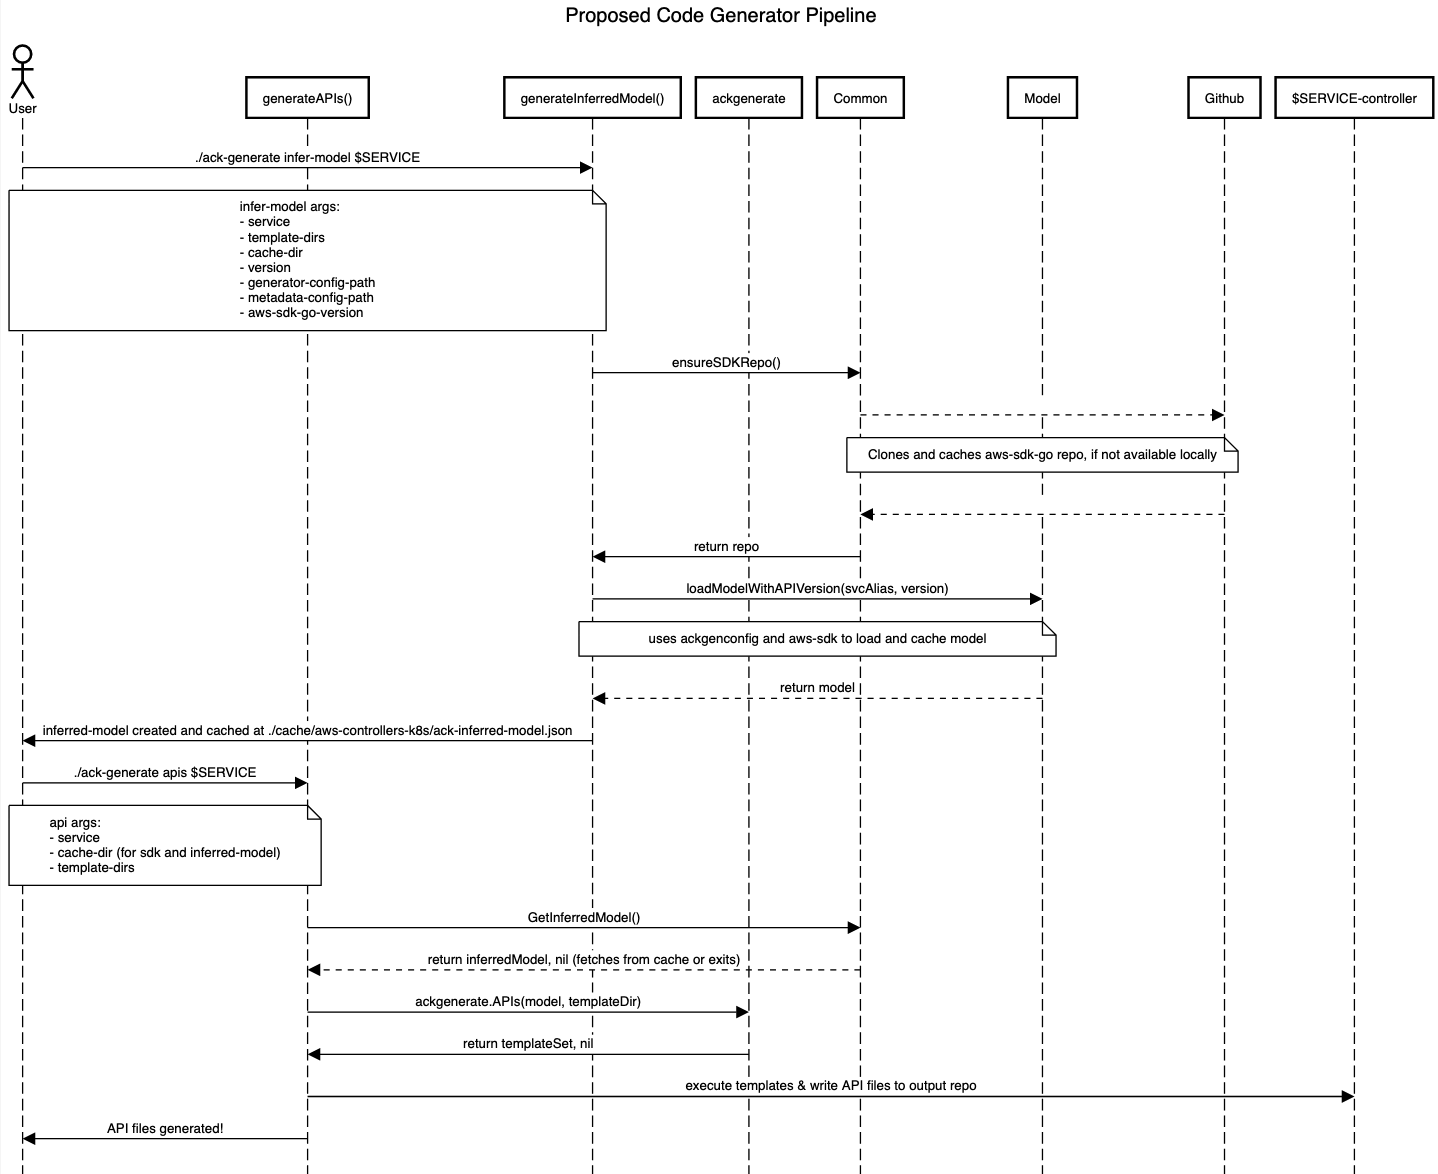
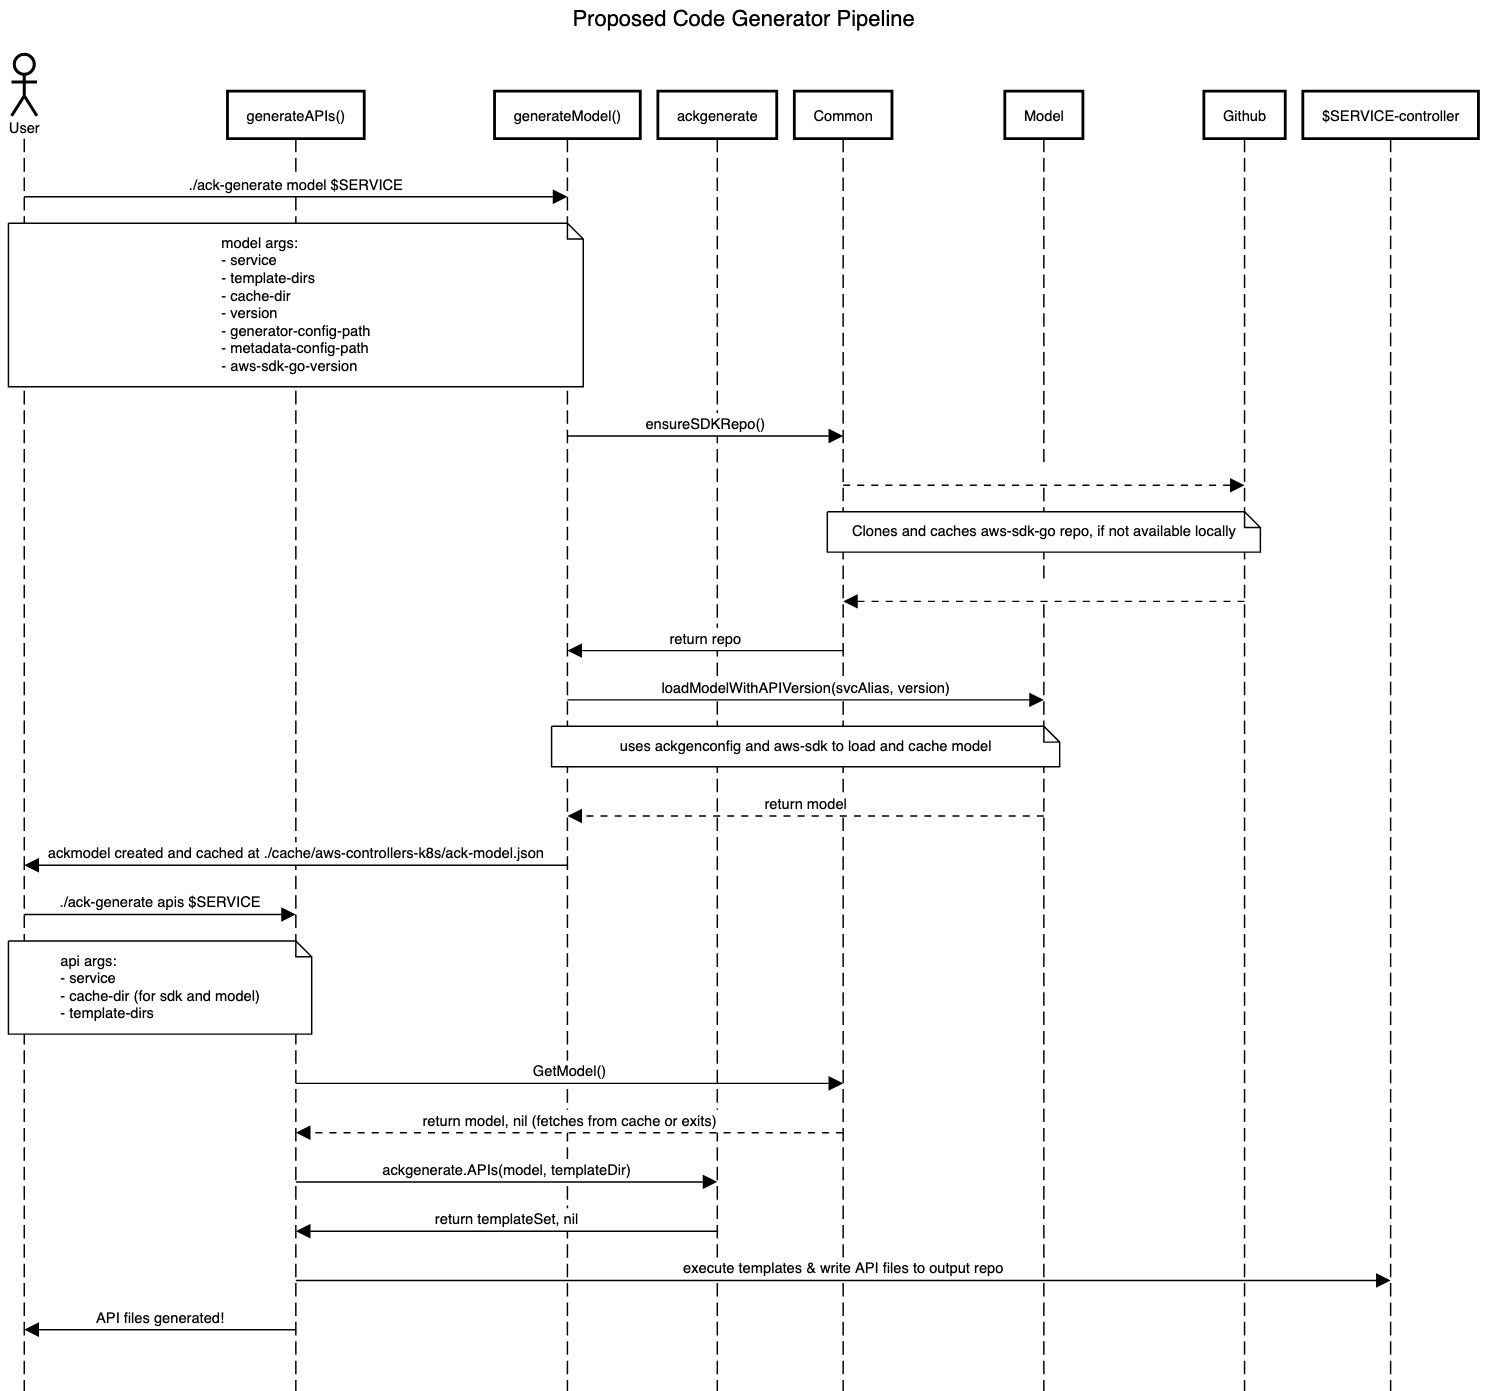
update naming from infer-model to model

diff --git a/docs/design/proposals/codegen-refactor/model_cmd.md b/docs/design/proposals/codegen-refactor/model_cmd.md
@@ -1,4 +1,4 @@
-# Adding `infer-model` command
+# Adding `model` command
 
 ## Problem
 There are inefficiencies in the code-generator `pipeline` that are starting to muddy the code and overall flow:
@@ -17,43 +17,33 @@ Current Pipeline
 * `GetCRDs` is duplicated between the commands when creating `ackmodel`
 
 ## Solution
-Add a new command, `infer-model`, which takes `aws-sdk` and *generator.yaml* as **input**, resolves relations/conflicts between the 2, persists and caches the data as serialized JSON, then **outputs** the `inferred-model` (default location: `~./cache/aws-controllers-k8s/ack-inferred-model.json`). Existing commands, `apis` and `controller`, will be downstream and take `inferred-model` as an input-- no longer needing to execute `inference` logic themselves. Within code, the `inferred-model` will be a new attribute withinin `ackmodel`.
+Add a new command, `model`, which takes `aws-sdk` and *generator.yaml* as **input**, discovers relations between the 2, persists and caches the data as serialized JSON, then **outputs** `ackmodel` (default location: `~./cache/aws-controllers-k8s/ack-model.json`). Existing commands, `apis` and `controller`, will be downstream and take `ackmodel` as an input-- no longer needing to execute `inference` logic and `ackmodel`-building themselves. Superfluous fields in [ackmodel](https://github.com/aws-controllers-k8s/code-generator/blob/02795c2056e23e1bb11dcc928ad0f0ba29790a8c/pkg/model/model.go#L37) (ex: `SDKAPI`, `cfg`) will be removed so that `ackmodel`'s responsibility remains clear and serializing large structs will not be necessary.
 
 
 Updated Pipeline
 ---
 ![updated-pipeline](./images/proposed_pipeline.png)
 * This is not an exhaustive diagram of the calls, but shows the clear responsibility of `generateModel` and how downstream commands like `api` and `controller` become significantly lighter and easier to follow.
-* `inferred-model` will be cached in the same folder as `aws-sdk` and downstream commands will check for `inferred-model` in the cache when hydrating `ackmodel`
+* `ackmodel` will be cached in the same folder as `aws-sdk` and downstream commands will check for `ackmodel` in the cache when hydrating `ackmodel`
 * No more dependency on $SERVICE-controller repo. The `ackmodel` will be generated with a specific version which can be extracted after commands `GetACKModel()`
 
 Updated `ackmodel`:
 ---
-Data relating to `API inference` will be moved from a top-level attribute in `ackmodel` to the `inferred-model` struct:
+Remove unnecessary data, `SDKAPI` and `cfg`, from `Model`:
 
 ```
 // serialized & cached during ./ack-generate infer-model
-type InferredModel struct {
-	apiVersion         string
-	crds               []*CRD
-	typeDefs           []*TypeDef
-	typeImports        map[string]string
-	typeRenames        map[string]string
-}
-
-...
-
 type Model struct {
-	SDKAPI             *SDKAPI
-	servicePackageName string
-    InferredModel    *InferredModel `json:"inferred_model"`
-	// Instructions to the code generator how to handle the API and its
-	// resources
-	cfg *ackgenconfig.Config
+	apiVersion         string `json:"api_version"`
+	crds               []*CRD `json:"crds"`
+	typeDefs           []*TypeDef `json:"type_defs"`
+	typeImports        map[string]string `json:"type_imports"`
+	typeRenames        map[string]string `json:"type_renames"`
 }
+
 ```
 
-`inferred-model` will be accessed through general-use `Model` helper functions. Ex:
+General-use helper functions are used to access `Model`, ex:
 ```
 // GetShapeRef returns the ShapeRef for a given resource and fieldName, rename-inclusive
 func (m *Model) GetShapeRef(resource *CRD, fieldName string) *awssdkmodel.ShapeRef {}
@@ -62,34 +52,34 @@ func (m *Model) GetShapeRef(resource *CRD, fieldName string) *awssdkmodel.ShapeR
 ### Requirements
 * Code generation `pipeline` flows in a single direction
 * Optimize `pipeline` by removing repeated work
-* Logic to create `inferred-model`, parse `ackgenconfig`, and resolve differences with `aws-sdk` is centralized and consistent
+* Logic to create `ackmodel`, parse `ackgenconfig`, and discover relations with `aws-sdk` is centralized and consistent
 
 ## Implementation
 
 ### Prerequisites
 * Work to achieve a **field-focused** approach covered in [`ackgenconfig` Categories proposal](./inference.md)
 * Analyze and fill test gaps
-* Any issues with marshalling `inferred-model` with proposed structs?
+* Any issues with marshalling `ackmodel` with proposed structs?
 
-### Add `InferredModel` to `ackmodel`
-Update `ackmodel` to include `InferredModel` as an attribute per the description above.
+### Update `ackmodel`
+Update `ackmodel` to remove unrelated fields & add/modify helpers.
 
 Fields may need to be altered/added to persist `API inference` data. For example, ensure the hydrating of [Field.ShapeRef](https://github.com/aws-controllers-k8s/code-generator/blob/82c294c2e8fc6ba23baa0034520e84351bb7a32f/pkg/model/field.go#L48) reflects the Field's rename, if applicable. This will align with the **field-focused** model and eliminates the need for [SetResource](https://github.com/aws-controllers-k8s/code-generator/blob/main/pkg/generate/code/set_resource.go#L191-L208) to do this work.
 
-Add/modify helper `ackmodel` methods to provide general use/access (not direct access) to `InferredModel` data like `m.GetShapeRef()` mentioned above. Downstream funcs like `SetResource` will become leaner after abstracting [`inference` work like rename checks](https://github.com/aws-controllers-k8s/code-generator/blob/d9d3390a4d5d39ccd4cab4fbdb5cef356211b01a/pkg/generate/code/set_resource.go#L185-L209) to `ackmodel` helpers.
+Add/modify helper `ackmodel` methods to provide general use/access (not direct access) like `m.GetShapeRef()` mentioned above. Downstream funcs like `SetResource` will become leaner after abstracting [`inference` work like rename checks](https://github.com/aws-controllers-k8s/code-generator/blob/d9d3390a4d5d39ccd4cab4fbdb5cef356211b01a/pkg/generate/code/set_resource.go#L185-L209) to `ackmodel` helpers.
 
-### Create new `infer-model` command
-* Define `cmd/ack-generate/infer-model.go`
-* Move `api inference` logic like [CRDs creation](https://github.com/aws-controllers-k8s/code-generator/blob/82c294c2e8fc6ba23baa0034520e84351bb7a32f/pkg/model/model.go#L77) to `infer-model` command
-* Marhsall & cache `inferred-model` in `--cache-dir`
+### Create new `model` command
+* Define `cmd/ack-generate/model.go`
+* Move `api inference` logic like [CRDs creation](https://github.com/aws-controllers-k8s/code-generator/blob/82c294c2e8fc6ba23baa0034520e84351bb7a32f/pkg/model/model.go#L77) to `model` command
+* Marhsall & cache `ackmodel` in `--cache-dir`
 
 #### Update `api` and `controller` commands
-* Upon creating `ackmodel`, check cache for `inferred-model`; if none, exit and ask to re-run
-* update calls in `build-controller` to pass in `inferred-model` parameter and execute `infer-model` command prior to `apis` and `controller`
+* Upon creating `ackmodel`, check cache for `ackmodel`; if none, exit and ask to re-run
+* update calls in `build-controller` to pass in `ackmodel` parameter and execute `model` command prior to `apis` and `controller`
 
 #### In Scope
-* add `infer-model` command
-* update `pipeline` to use `infer-model` and pass artifacts downstream to `api` and `controller`
+* add `model` command
+* update `pipeline` to use `model` and pass artifacts downstream to `api` and `controller`
 * make naming consistent on affected code
 * tests related to this code
   * for a given `model` expect this generated code/types maybe?
@@ -99,12 +89,12 @@ Add/modify helper `ackmodel` methods to provide general use/access (not direct a
 * changes to *generator.yaml* interface
 
 ### Test plan
-* After relocating logic to `inferred-model`:
+* After relocating logic to `model`:
   * execute code-generator against X services
   * run the e2e test suite for each service
   * resolve issues
-* Save off the marshalled `inferred-model` from above test into `testdata/`
-* Update tests to generate `inferred-model`, then compare it to expected blob in `testdata/`
+* Save off the marshalled `model` from above test into `testdata/`
+* Update tests to generate `model`, then compare it to expected blob in `testdata/`
 
 
 ### Alternative Solutions

diff --git a/docs/design/proposals/codegen-refactor/proposal-summary.md b/docs/design/proposals/codegen-refactor/proposal-summary.md
@@ -56,10 +56,10 @@ The `code` package is responsible for generating Go code, but has become overloa
 * removing duplicate code
 * generalizing areas with hard-coded use cases.
 
-### New command `./ack-generate infer-model`
-`infer-model` takes `aws-sdk` and *generator.yaml* as **input**, resolves relations/conflicts between the 2, persists and caches the data as serialized JSON, then **outputs** the `inferred-model` (default location: `~./cache/aws-controllers-k8s/ack-inferred-model.json`). Existing commands, `apis` and `controller`, will be downstream and take `inferred-model` as an input. This will immediately improve the `pipeline` by removing duplicated `inference` work being done in both commands and clean up generator implementations.
+### New command `./ack-generate model`
+`model` takes `aws-sdk` and *generator.yaml* as **input**, discovers between the 2, persists and caches the data as serialized JSON, then **outputs** `ackmodel` (default location: `~./cache/aws-controllers-k8s/ack-model.json`). Existing commands, `apis` and `controller`, will be downstream and take `ackmodel` as an input. This will immediately improve the `pipeline` by removing duplicated `inference` work being done in both commands and clean up generator implementations.
 
- With a new `infer-model` command, the code generation can flow from a common `inference` source which also creates opportunity for future commands:
+ With a new `model` command, the code generation can flow from a common `inference` source which also creates opportunity for future commands:
 
 ![proposed-gen](./images/proposed_gen.png)
 
@@ -68,4 +68,4 @@ The `code` package is responsible for generating Go code, but has become overloa
 The efforts described above do not necessarily depend on one another, but I recommend reviewing and implementing in the order below:
    * [`ackgenconfig` Categories](./inference.md)
    * [Generator Enhancements](./generator.md)
-   * [`infer-model` Command](./infer_model_cmd.md)
+   * [`model` Command](./model_cmd.md)
